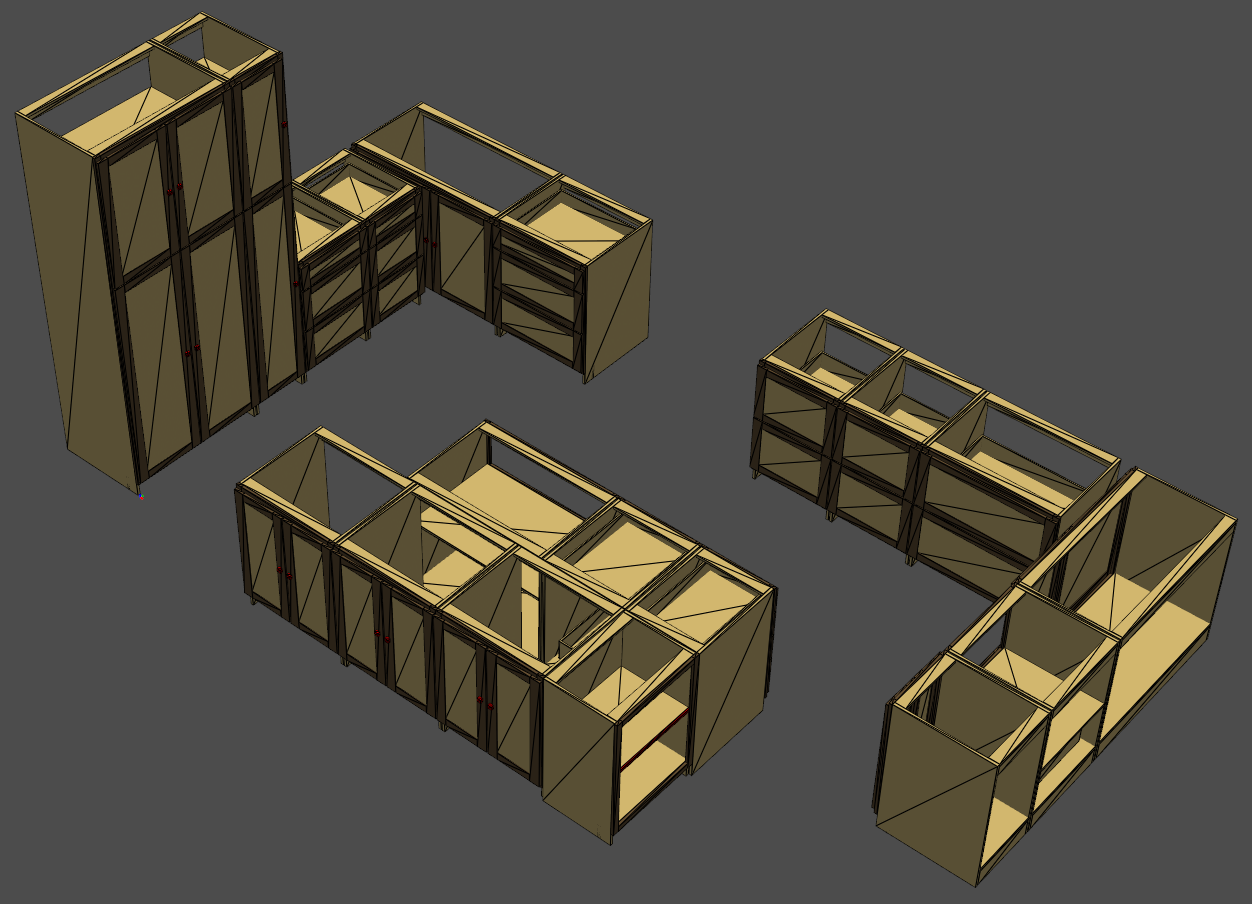
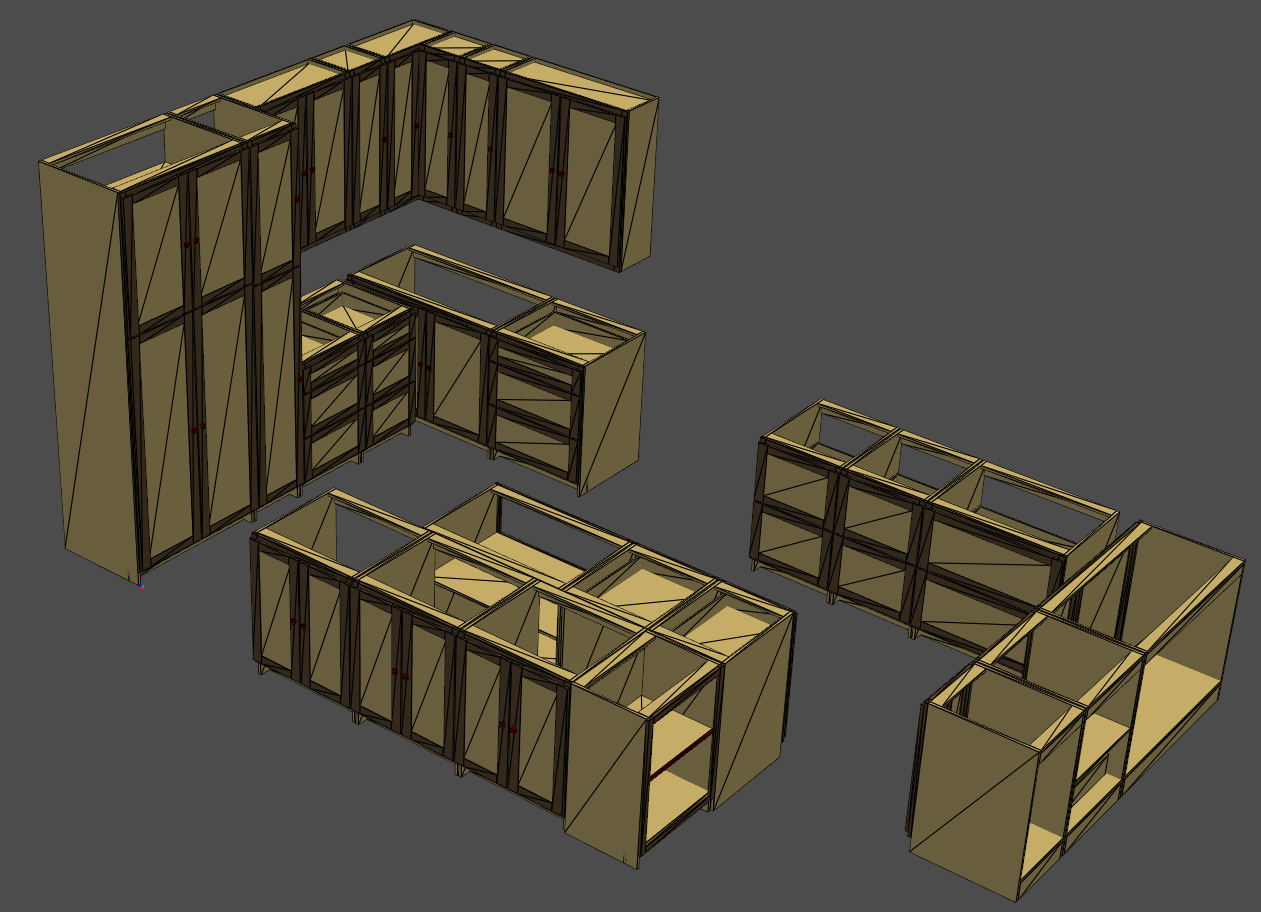
Added uppers

diff --git a/kitchen.py b/kitchen.py
@@ -4,13 +4,13 @@ from cabinetry.components import ComponentContainer, ComponentGrid, GhostCompone
 from cabinetry.components.uppers import UpperCabinet
 from cabinetry.components.lowers import LowerCabinet, Pantry
 from cabinetry.components.shelves import StandardShelf
+from cabinetry.components.doors import ShakerDoor
 from cabinetry.components.factory import _door_factory, _drawer_factory, get_faceframe_factory, get_shelf_factory
 from cabinetry.components.decorators import faceframe_with_shelves
 import numpy as np
 
 
 TOP_DRAWER_HEIGHT = 5
-CABINET_SPACING = 0.25
 
 
 def _N_Drawer_eq_args(num_drawers: int):
@@ -27,7 +27,7 @@ def _N_Drawer_offset_args(num_drawers: int):
     }
 
 
-def create_grid_with_spacing(cabs: list, spacing: float = CABINET_SPACING, **kwargs):
+def assemble_in_grid(cabs: list, spacing: float = 0, **kwargs):
     widths = [cab.width for cab in cabs]
     nCab = len(widths)
     name = kwargs.pop('name', 'global-frame')
@@ -51,13 +51,13 @@ def create_grid_with_spacing(cabs: list, spacing: float = CABINET_SPACING, **kwa
     return grid
 
 
-def main():
+def construct_kitchen():
     base_frame = ComponentContainer()
-    north_wall_lowers: list[LowerCabinet] = []
-    north_wall_lowers.append(
+    south_wall_lowers: list[LowerCabinet] = []
+    south_wall_lowers.append(
         Pantry(
             width=36,
-            height=90,
+            height=93,
             frame_args={
                 'row_dist': [90/3, 1],
                 'row_type': ['fixed', 'weighted'],
@@ -66,35 +66,35 @@ def main():
             }
         )
     )
-    north_wall_lowers.append(
+    south_wall_lowers.append(
         Pantry(
             width=15,
-            height=90,
+            height=93,
             frame_args={
-                'row_dist': [90/3, 1],
+                'row_dist': [93/3, 1],
                 'row_type': ['fixed', 'weighted'],
                 'col_dist': [1],
                 'col_type': ['weighted'],
             }
         )
     )
-    north_wall_lowers.append(
+    south_wall_lowers.append(
         LowerCabinet(
             width=21,
             frame_factory=get_faceframe_factory('N-Drawer'),
             frame_args=_N_Drawer_offset_args(3),
         )
     )
-    north_wall_lowers.append(
+    south_wall_lowers.append(
         LowerCabinet(
             width=18,
             frame_factory=get_faceframe_factory('N-Drawer'),
             frame_args=_N_Drawer_offset_args(3),
         )
     )
-    north_wall_lowers = create_grid_with_spacing(
-        cabs=north_wall_lowers,
-        spacing=CABINET_SPACING,
+    south_wall_lowers = assemble_in_grid(
+        cabs=south_wall_lowers,
+        spacing=0,
         name='north_wall_lowers',
         parent=base_frame,
         orientation=Orientation(
@@ -148,9 +148,9 @@ def main():
         )
     )
 
-    west_wall_lowers = create_grid_with_spacing(
+    west_wall_lowers = assemble_in_grid(
         cabs=west_wall_lowers,
-        spacing=CABINET_SPACING,
+        spacing=0,
         name='west_wall_lowers',
         parent=base_frame,
         orientation=Orientation(
@@ -165,9 +165,9 @@ def main():
         )
     )
 
-    east_wall_lowers: list[LowerCabinet] = []
+    north_wall_lowers: list[LowerCabinet] = []
     # Simulated Lemans corner cabinet
-    east_wall_lowers.append(
+    north_wall_lowers.append(
         LowerCabinet(
             width=45,
             frame_factory=get_faceframe_factory('N-Door-Horiz'),
@@ -192,10 +192,10 @@ def main():
     )
     # Add drawer to bottom cell of microwave_cab. Top remains open for microwave
     _drawer_factory(microwave_cab.face.cells[1])
-    east_wall_lowers.append(microwave_cab)
+    north_wall_lowers.append(microwave_cab)
 
     # Stand-in for corner cabinet on peninsula
-    east_wall_lowers.append(
+    north_wall_lowers.append(
         LowerCabinet(
             width=18,
             frame_factory=get_faceframe_factory('N-Door-Horiz'),
@@ -206,10 +206,10 @@ def main():
         )
     )
 
-    east_wall_lowers = create_grid_with_spacing(
-        cabs=east_wall_lowers,
-        spacing=CABINET_SPACING,
-        name='east_wall_lowers',
+    north_wall_lowers = assemble_in_grid(
+        cabs=north_wall_lowers,
+        spacing=0,
+        name='north_wall_lowers',
         parent=base_frame,
         orientation=Orientation(
             rx=0,
@@ -243,7 +243,7 @@ def main():
                     'dist_type': ['weighted', 'weighted'],
                 },
                 position=Position(
-                    x=(27 + CABINET_SPACING)*i,
+                    x=(27 + 0)*i,
                     y=0,
                     z=0,
                 )
@@ -262,7 +262,7 @@ def main():
             'col_type': ['weighted'],
         },
         position=Position(
-            x=(27 + CABINET_SPACING)*3+18,
+            x=(27 + 0)*3+18,
             y=0,
             z=0,
         ),
@@ -297,7 +297,7 @@ def main():
                 'dist_type': [*['fixed']*3, 'weighted'],
             },
             position=Position(
-                x=(27 + CABINET_SPACING)*3+18,
+                x=(27 + 0)*3+18,
                 y=48+1/8,
                 z=0,
             ),
@@ -320,7 +320,7 @@ def main():
             },
             position=Position(
                 x=island.children[-1].position.x -
-                (island.children[-1].width + CABINET_SPACING),
+                (island.children[-1].width + 0),
                 y=48+1/8,
                 z=0,
             ),
@@ -337,7 +337,7 @@ def main():
         width=36,
         position=Position(
             x=island.children[-1].position.x -
-            (island.children[-1].width + CABINET_SPACING),
+            (island.children[-1].width + 0),
             y=48+1/8,
             z=0,
         ),
@@ -371,8 +371,148 @@ def main():
     # Add doors to bottom cell of sink_cab. Top remains open for sink
     _door_factory(under_sink_grid.cells)
 
+    south_wall_uppers: list[UpperCabinet] = []
+    upper_widths = [30, 12]
+    num_doors = [2, 1]
+    nShelves = 3
+    for width, ndoors in zip(upper_widths, num_doors):
+        cab = UpperCabinet(
+            width=width,
+            frame_factory=get_faceframe_factory('N-Door-Horiz'),
+            frame_args={
+                'door_dist': [1]*ndoors,
+                'dist_type': ['weighted']*ndoors
+            },
+            # depth and height relative to front of lowers at the floor level
+            position=Position(
+                x=0,
+                y=Config.LOWERS_DEPTH-Config.UPPERS_DEPTH,
+                z=Config.COUNTER_HEIGHT+Config.COUNTER_TO_UPPERS_GAP,
+            )
+        )
+        south_wall_uppers.append(cab)
+
+    # Corner cabinet to be simulated by 24" wide and 12" wide
+    corner_cab_left = UpperCabinet(
+        width=24,
+        frame_factory=get_faceframe_factory('MxN-Empty'),
+        frame_args={
+            'row_dist': [1],
+            'row_type': ['weighted'],
+            'col_dist': [9, 1],
+            'col_type': ['fixed', 'weighted'],
+        },
+        # depth and height relative to front of lowers at the floor level
+        position=Position(
+            x=0,
+            y=Config.LOWERS_DEPTH-Config.UPPERS_DEPTH,
+            z=Config.COUNTER_HEIGHT+Config.COUNTER_TO_UPPERS_GAP,
+        )
+    )
+    # Add door to left side only
+    cell = corner_cab_left.face.cells[0, 0]
+    cell.add_child(
+        ShakerDoor(
+            hinge_side='left',
+            hinge_stile_factor='double',
+            opening_width=cell.width,
+            opening_height=cell.height,
+        )
+    )
+
+    # Adding 12" cabinet and rotating to make positioning it easier
+    # The door and case details aren't exactly right here but close
+    # enough for a rough estimate.
+    # TODO: Make a corner cabinet class to better represent this geometry
+    corner_cab_right = UpperCabinet(
+        parent=corner_cab_left,
+        width=12,
+        frame_factory=get_faceframe_factory('N-Door-Horiz'),
+        frame_args={
+            'door_dist': [1],
+            'dist_type': ['weighted'],
+        },
+        position=Position(
+            x=corner_cab_left.width-Config.UPPERS_DEPTH,
+            y=0,
+            z=0,
+        ),
+        orientation=Orientation(
+            rx=0,
+            ry=0,
+            rz=-90
+        )
+    )
+
+    south_wall_uppers.append(corner_cab_left)
+
+    for cab in south_wall_uppers:
+        shelf_grid = ComponentGrid(
+            parent=cab.case,
+            width=cab.case.box_width_inside,
+            height=cab.case.box_height_inside,
+            position=cab.case.box_inside_origin,
+            row_dist=np.array([1]*(nShelves+1)),
+            row_type=['weighted']*(nShelves+1),
+            col_dist=[1],
+            col_type=['weighted'],
+        )
+        get_shelf_factory('banded')(grid=shelf_grid, case=cab.case)
+
+    south_wall_uppers = assemble_in_grid(
+        cabs=south_wall_uppers,
+        spacing=0,
+        name='south_wall_uppers',
+        parent=base_frame,
+        orientation=Orientation(
+            rx=0,
+            ry=0,
+            rz=90,
+        ),
+        # position at origin of first lower cabinet
+        position=south_wall_lowers.cells[0, 2].get_global_pose()[0],
+    )
+
+    # pos, ori = corner_cab_right.get_global_pose()
+    west_wall_uppers: list[UpperCabinet] = []
+    west_wall_uppers.append(
+        UpperCabinet(
+            width=12,
+            frame_factory=get_faceframe_factory('N-Door-Horiz'),
+            frame_args={
+                'door_dist': [1],
+                'dist_type': ['weighted'],
+            },
+        )
+    )
+    west_wall_uppers.append(
+        UpperCabinet(
+            width=36,
+            frame_factory=get_faceframe_factory('N-Door-Horiz'),
+            frame_args={
+                'door_dist': [1]*2,
+                'dist_type': ['weighted']*2,
+            },
+        )
+    )
+
+    west_wall_uppers = assemble_in_grid(
+        cabs=west_wall_uppers,
+        spacing=0,
+        name='west_wall_uppers',
+        parent=base_frame,
+        position=(
+            corner_cab_right.get_global_pose()[0]
+            + (corner_cab_right.width+0, 0, 0)),
+        orientation=Orientation(
+            rx=0,
+            ry=0,
+            rz=0
+        )
+    )
+
     base_frame.render()
 
 
 if __name__ == "__main__":
-    main()
+    construct_kitchen()
